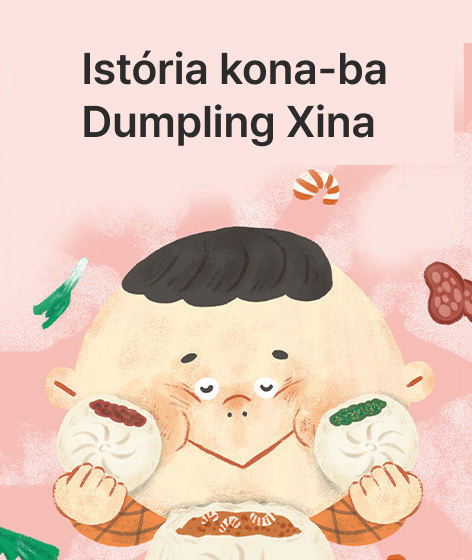
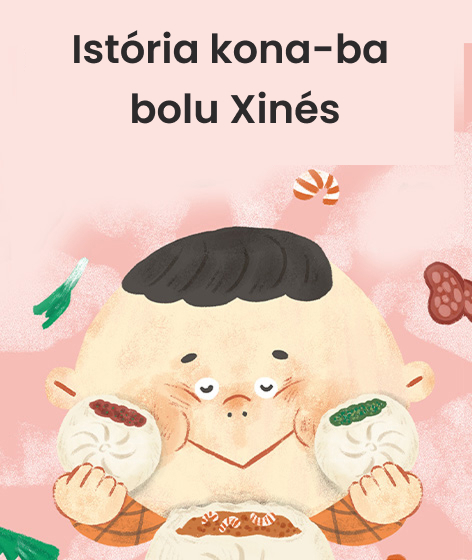
design: 테툼어판 커버 이미지 제목 수정 및 기여자 지수 추가

Changed region(s): [[0.1483, 0.0607, 0.8305, 0.2732]]

diff --git a/app/src/main/java/com/timor/kidsstory/presentation/book/components/PageTextSection.kt b/app/src/main/java/com/timor/kidsstory/presentation/book/components/PageTextSection.kt
@@ -111,8 +111,8 @@ fun PageTextSection(
                         Column(horizontalAlignment = Alignment.Start) {
                             filteredContributors.forEach { contributor ->
                                 Text(
-                                    text = "${contributor.role}: ${contributor.name}",
-                                    style = MaterialTheme.typography.bodyMedium,//bodySmall.copy(fontSize = 16.sp),
+                                    text = "${contributor.role} | ${contributor.name}",
+                                    style = MaterialTheme.typography.titleSmall,//bodySmall.copy(fontSize = 16.sp),
                                     maxLines = 1,
                                     overflow = TextOverflow.Ellipsis,
                                     modifier = Modifier.padding(bottom = 2.dp) // Added bottom padding
@@ -132,7 +132,7 @@ fun PageTextSection(
                         }
                         Text(
                             text = "$sponsorsLabel${sponsors.joinToString()}",
-                            style = MaterialTheme.typography.bodySmall.copy(fontSize = 10.sp),
+                            style = MaterialTheme.typography.bodySmall.copy(fontSize = 12.sp),
                             maxLines = 1,
                             overflow = TextOverflow.Ellipsis,
                             modifier = Modifier.align(Alignment.Start) // Changed to Alignment.Start
@@ -238,13 +238,12 @@ fun PageTextSection(
             if (pageState.pageNumber == 1) {
                 Column(
                     modifier = Modifier
-                        .weight(1f) // Take up available space
-                        .padding(start = responsivePadding), // Add start padding
+                        .weight(1f), // Take up available space
                     horizontalAlignment = Alignment.Start
                 ) {
                     Text(
                         text = "${pageState.title} ${pageState.copyright}",
-                        style = MaterialTheme.typography.labelSmall.copy(fontSize = 8.sp),
+                        style = MaterialTheme.typography.labelSmall.copy(fontSize = 6.sp),
                         maxLines = 2,
                         overflow = TextOverflow.Ellipsis,
                         textAlign = TextAlign.Start,
@@ -253,7 +252,7 @@ fun PageTextSection(
                     pageState.originalCopyright?.let { original ->
                         Text(
                             text = original,
-                            style = MaterialTheme.typography.labelSmall.copy(fontSize = 8.sp),
+                            style = MaterialTheme.typography.labelSmall.copy(fontSize = 6.sp),
                             maxLines = 2,
                             overflow = TextOverflow.Ellipsis,
                             textAlign = TextAlign.Start,

diff --git a/app/src/main/java/com/timor/kidsstory/data/remote/network/BookNetworkService.kt b/app/src/main/java/com/timor/kidsstory/data/remote/network/BookNetworkService.kt
@@ -1,5 +1,6 @@
 package com.timor.kidsstory.data.remote.network
 
+import android.util.Log
 import com.timor.kidsstory.data.remote.model.GithubMetadata
 import io.ktor.client.HttpClient
 import io.ktor.client.call.body
@@ -36,13 +37,20 @@ class BookNetworkService @Inject constructor(
      * @return 메타데이터 객체
      */
     suspend fun getMetadata(): GithubMetadata {
-        val response = httpClient.get("https://raw.githubusercontent.com/choe-yujin/storybook-assets/master/metadata.json")
+        return try {
+            val response = httpClient.get("https://raw.githubusercontent.com/choe-yujin/storybook-assets/master/metadata.json")
+            if (!response.status.isSuccess()) {
+                Log.e("BookNetworkService", "메타데이터 가져오기 실패: ${response.status.value} ${response.status.description}")
+                throw Exception("메타데이터 가져오기 실패: ${response.status.value} ${response.status.description}")
+            }
 
-        // text/plain으로 받은 응답을 직접 문자열로 변환하고
-        val jsonString = response.bodyAsText()
-
-        // 그 다음 문자열을 JSON으로 파싱
-        return Json.decodeFromString<GithubMetadata>(jsonString)
+            val jsonString = response.bodyAsText()
+            Log.d("BookNetworkService", "메타데이터 JSON 수신: ${jsonString.take(200)}...") // Log first 200 chars
+            Json.decodeFromString<GithubMetadata>(jsonString)
+        } catch (e: Exception) {
+            Log.e("BookNetworkService", "GitHub에서 메타데이터 가져오는 중 오류 발생: ${e.message}", e)
+            throw e // Re-throw to be caught by use case
+        }
     }
 
     /**

diff --git a/app/src/main/java/com/timor/kidsstory/presentation/setting/components/AboutCardContent.kt b/app/src/main/java/com/timor/kidsstory/presentation/setting/components/AboutCardContent.kt
@@ -66,13 +66,13 @@ fun AboutCardContent(scaleFactor: Float) {
                             color = AppColors.neutral800
                         )
                         Text(
-                            text = " 1.1.0",
+                            text = " 2.0.0",
                             style = ResponsiveTextUtils.getSettingVerySmallTextStyle(),
                             color = AppColors.neutral800
                         )
                     }
                     Text(
-                        text = "25-08-05",
+                        text = "25-09-06",
                         style = ResponsiveTextUtils.getSettingVerySmallTextStyle(),
                         color = AppColors.neutral600
                     )
@@ -149,7 +149,7 @@ fun SmallAboutCardContent(scaleFactor: Float) {
                         color = AppColors.neutral800
                     )
                     Text(
-                        text = ": 1.1.0",
+                        text = ": 2.0.0",
                         style = ResponsiveTextUtils.getSettingVerySmallTextStyle().copy(
                             fontSize = ResponsiveTextUtils.getSettingVerySmallTextStyle().fontSize * 0.65f
                         ),
@@ -235,7 +235,7 @@ fun VerySmallAboutCardContent(scaleFactor: Float) {
                         color = AppColors.neutral800
                     )
                     Text(
-                        text = ": 1.1.0",
+                        text = ": 2.0.0",
                         style = ResponsiveTextUtils.getSettingVerySmallTextStyle().copy(
                             fontSize = ResponsiveTextUtils.getSettingVerySmallTextStyle().fontSize * 0.55f
                         ),

diff --git a/app/src/main/java/com/timor/kidsstory/presentation/setting/components/CreatedByCardContent.kt b/app/src/main/java/com/timor/kidsstory/presentation/setting/components/CreatedByCardContent.kt
@@ -79,6 +79,12 @@ fun CreatedByCardContent(
                 hasEmail = false,
                 onEmailClick = {}
             )
+            DeveloperRow(
+                roleResId = R.string.info_cm_jisu,
+                flagResId = R.drawable.flag_ko,
+                hasEmail = false,
+                onEmailClick = {}
+            )
         }
     }
 }
@@ -130,6 +136,12 @@ fun SmallCreatedByCardContent(
                 hasEmail = false,
                 onEmailClick = {}
             )
+            SmallDeveloperRow(
+                roleResId = R.string.info_cm_jisu,
+                flagResId = R.drawable.flag_ko,
+                hasEmail = false,
+                onEmailClick = {}
+            )
         }
     }
 }
@@ -177,6 +189,12 @@ fun VerySmallCreatedByCardContent(
             )
             VerySmallDeveloperRow(
                 roleResId = R.string.info_des_yuni,
+                flagResId = R.drawable.flag_ko,
+                hasEmail = false,
+                onEmailClick = {}
+            )
+            VerySmallDeveloperRow(
+                roleResId = R.string.info_cm_jisu,
                 flagResId = R.drawable.flag_ko,
                 hasEmail = false,
                 onEmailClick = {}

diff --git a/app/src/main/java/com/timor/kidsstory/domain/usecase/book/GetRemoteBooksUseCase.kt b/app/src/main/java/com/timor/kidsstory/domain/usecase/book/GetRemoteBooksUseCase.kt
@@ -1,5 +1,6 @@
 package com.timor.kidsstory.domain.usecase.book
 
+import android.util.Log
 import com.timor.kidsstory.data.remote.model.RemoteBook
 import com.timor.kidsstory.data.remote.network.BookNetworkService
 import javax.inject.Inject
@@ -29,6 +30,7 @@ class GetRemoteBooksUseCase @Inject constructor(
 
             Result.success(filteredBooks)
         } catch (e: Exception) {
+            Log.e("GetRemoteBooksUseCase", "GetRemoteBooksUseCase에서 오류 발생: ${e.message}", e)
             Result.failure(e)
         }
     }

diff --git a/app/src/main/java/com/timor/kidsstory/data/repository/AppVersionRepositoryImpl.kt b/app/src/main/java/com/timor/kidsstory/data/repository/AppVersionRepositoryImpl.kt
@@ -94,10 +94,10 @@ class AppVersionRepositoryImpl @Inject constructor(
                 @Suppress("DEPRECATION")
                 context.packageManager.getPackageInfo(context.packageName, 0)
             }
-            packageInfo.versionName ?: "1.1.0"
+            packageInfo.versionName ?: "2.0.0"
         } catch (e: PackageManager.NameNotFoundException) {
             Log.e("AppVersionRepository", "Error getting current version name", e)
-            "1.1.0"
+            "2.0.0"
         }
     }
 
